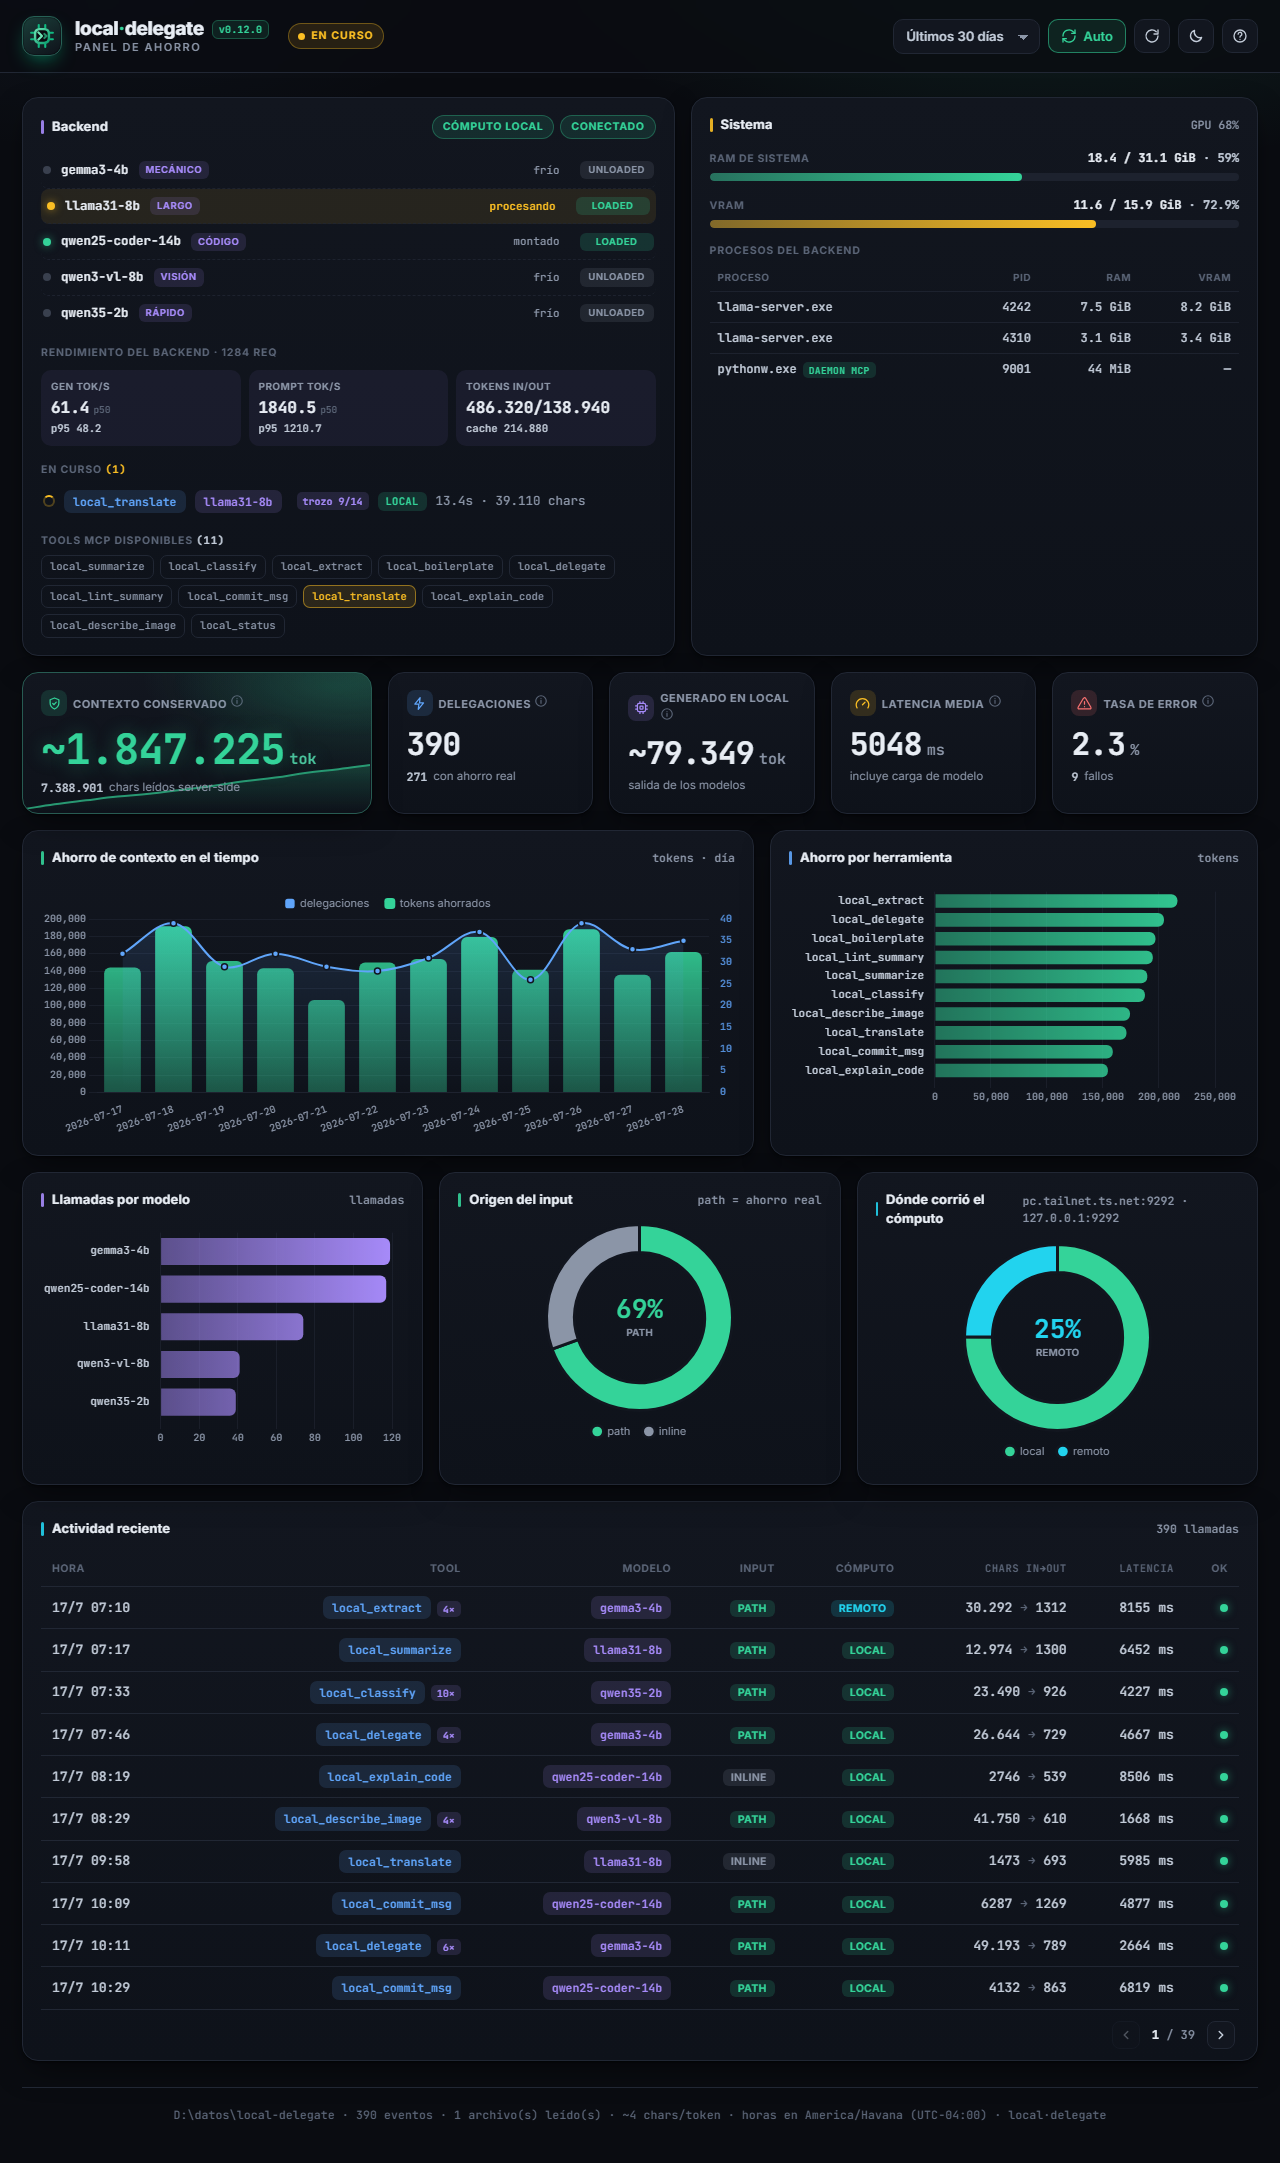
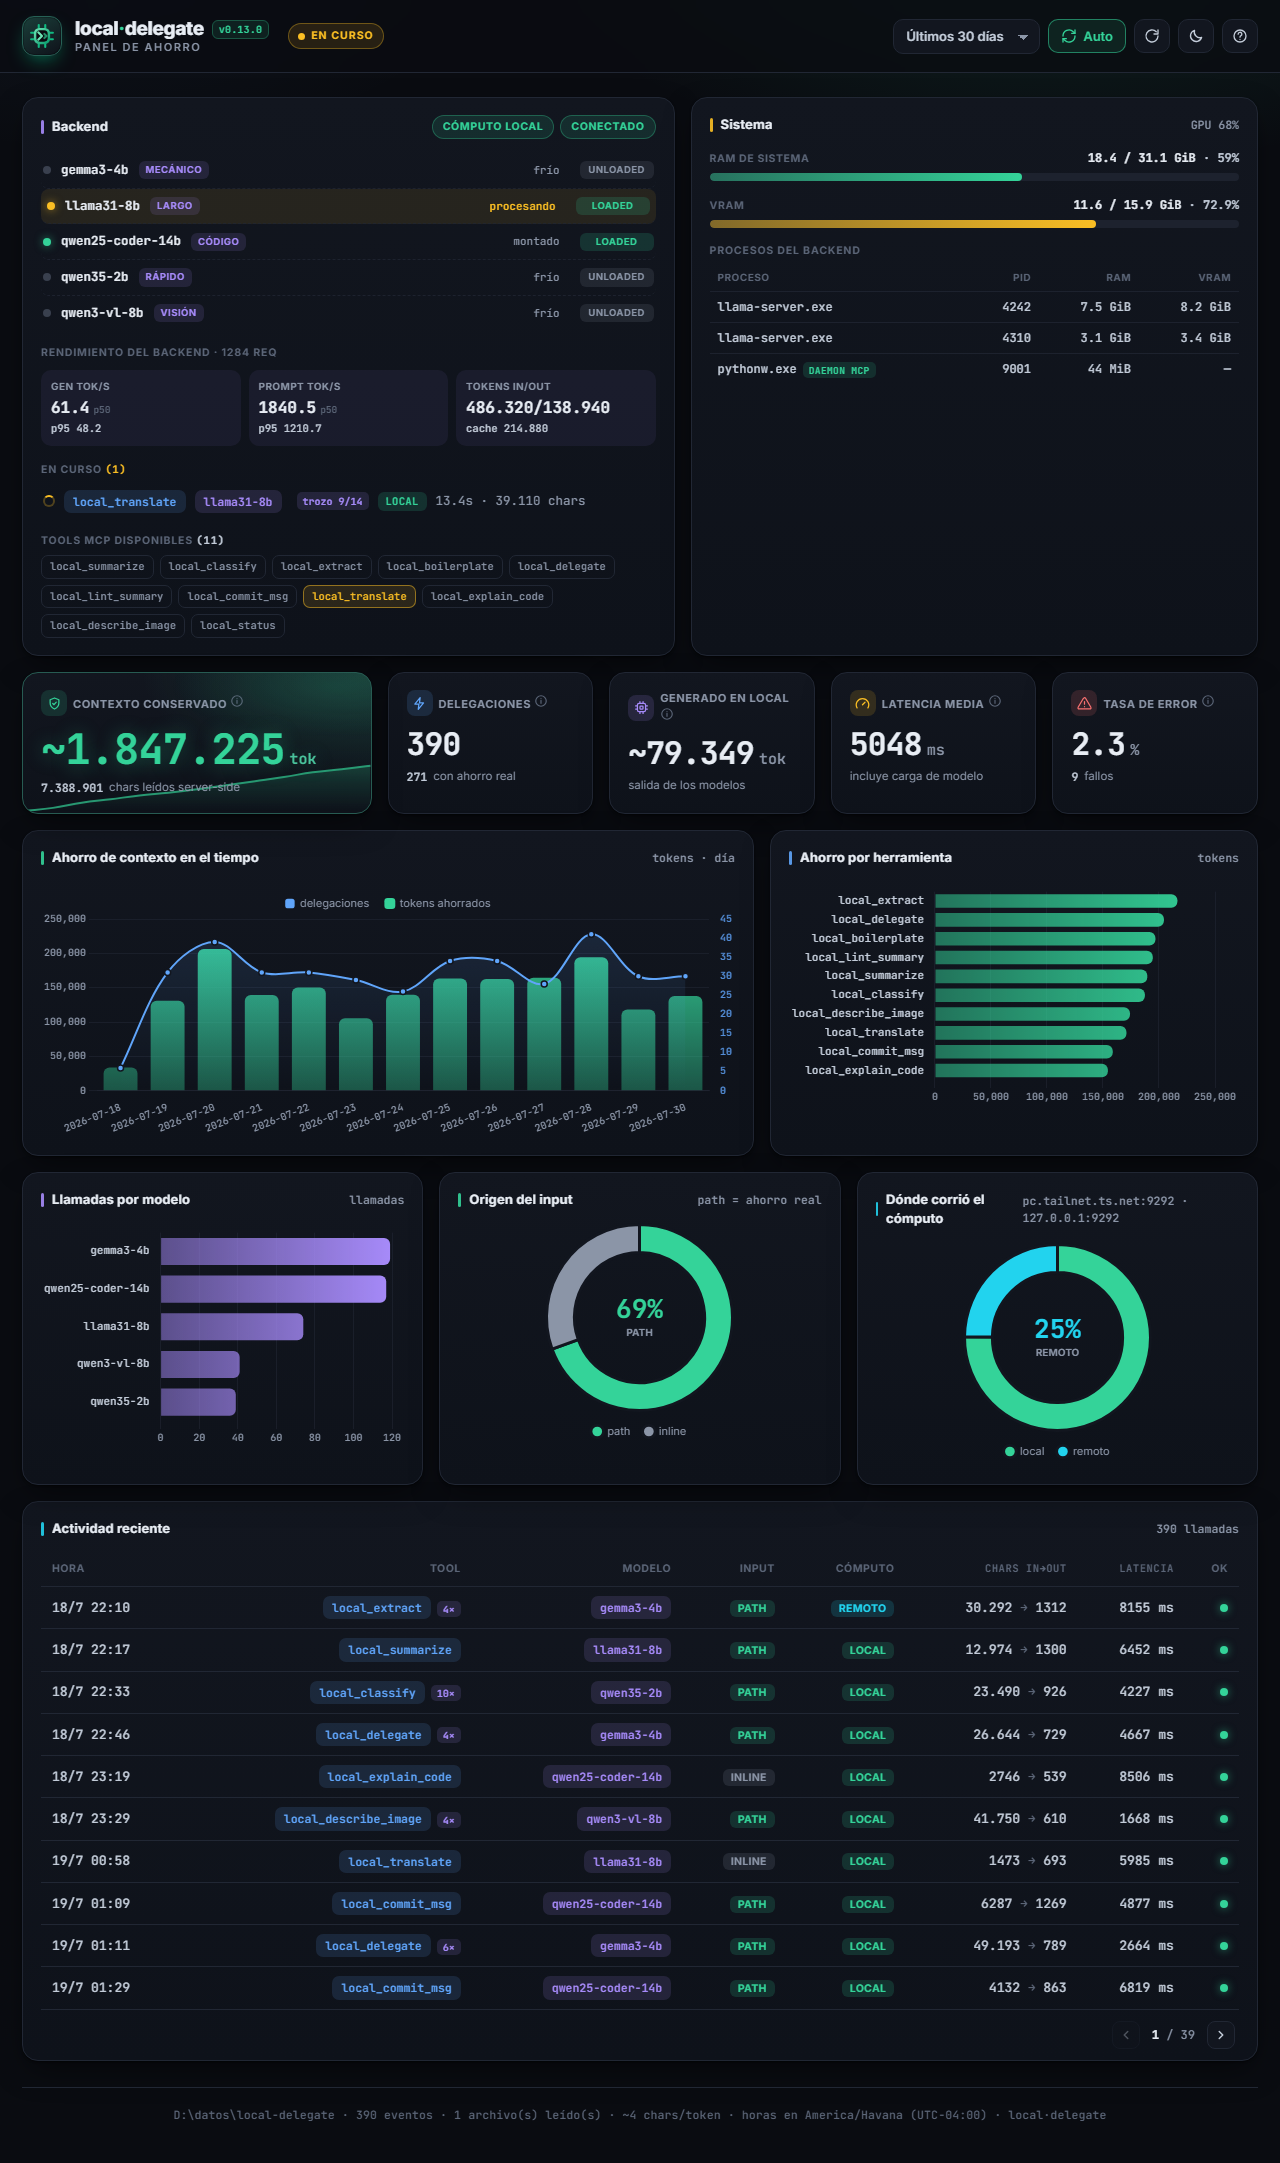
chore: prepara la 0.13.0 con la migración al SDK mcp 2.x
Cierra la sección `Unreleased`, que llevaba las dos fases de la
migración: el cambio de `mcp.server.fastmcp` a `mcp.server.mcpserver`
con `httpx2` como única librería HTTP, y la adopción de `annotations`,
`structured_output` y la presentación del server.

Es minor y no patch porque **cambia un contrato**: `local_extract`
devuelve un objeto validado en vez de una cadena con JSON dentro.

Se regenera la captura del dashboard del README, que enseña el badge de
versión: ahora luce v0.13.0 y el Chart.js 4.5.1 de la 0.12.4. Sigue
hecha con datos de ejemplo deterministas, sin actividad real.

Changed region(s): [[0.0312, 0.4027, 0.5938, 0.5266], [0.0625, 0.1239, 0.1562, 0.1549]]

diff --git a/CHANGELOG.md b/CHANGELOG.md
@@ -6,6 +6,8 @@ y el proyecto usa [Versionado Semántico](https://semver.org/lang/es/).
 
 ## [Unreleased]
 
+## [0.13.0] - 2026-07-29
+
 ### Changed
 - **Migración al SDK `mcp` 2.x.** El import pasa de `mcp.server.fastmcp.FastMCP` a
   `mcp.server.mcpserver.MCPServer`, y el daemon fija la ruta del MCP con
